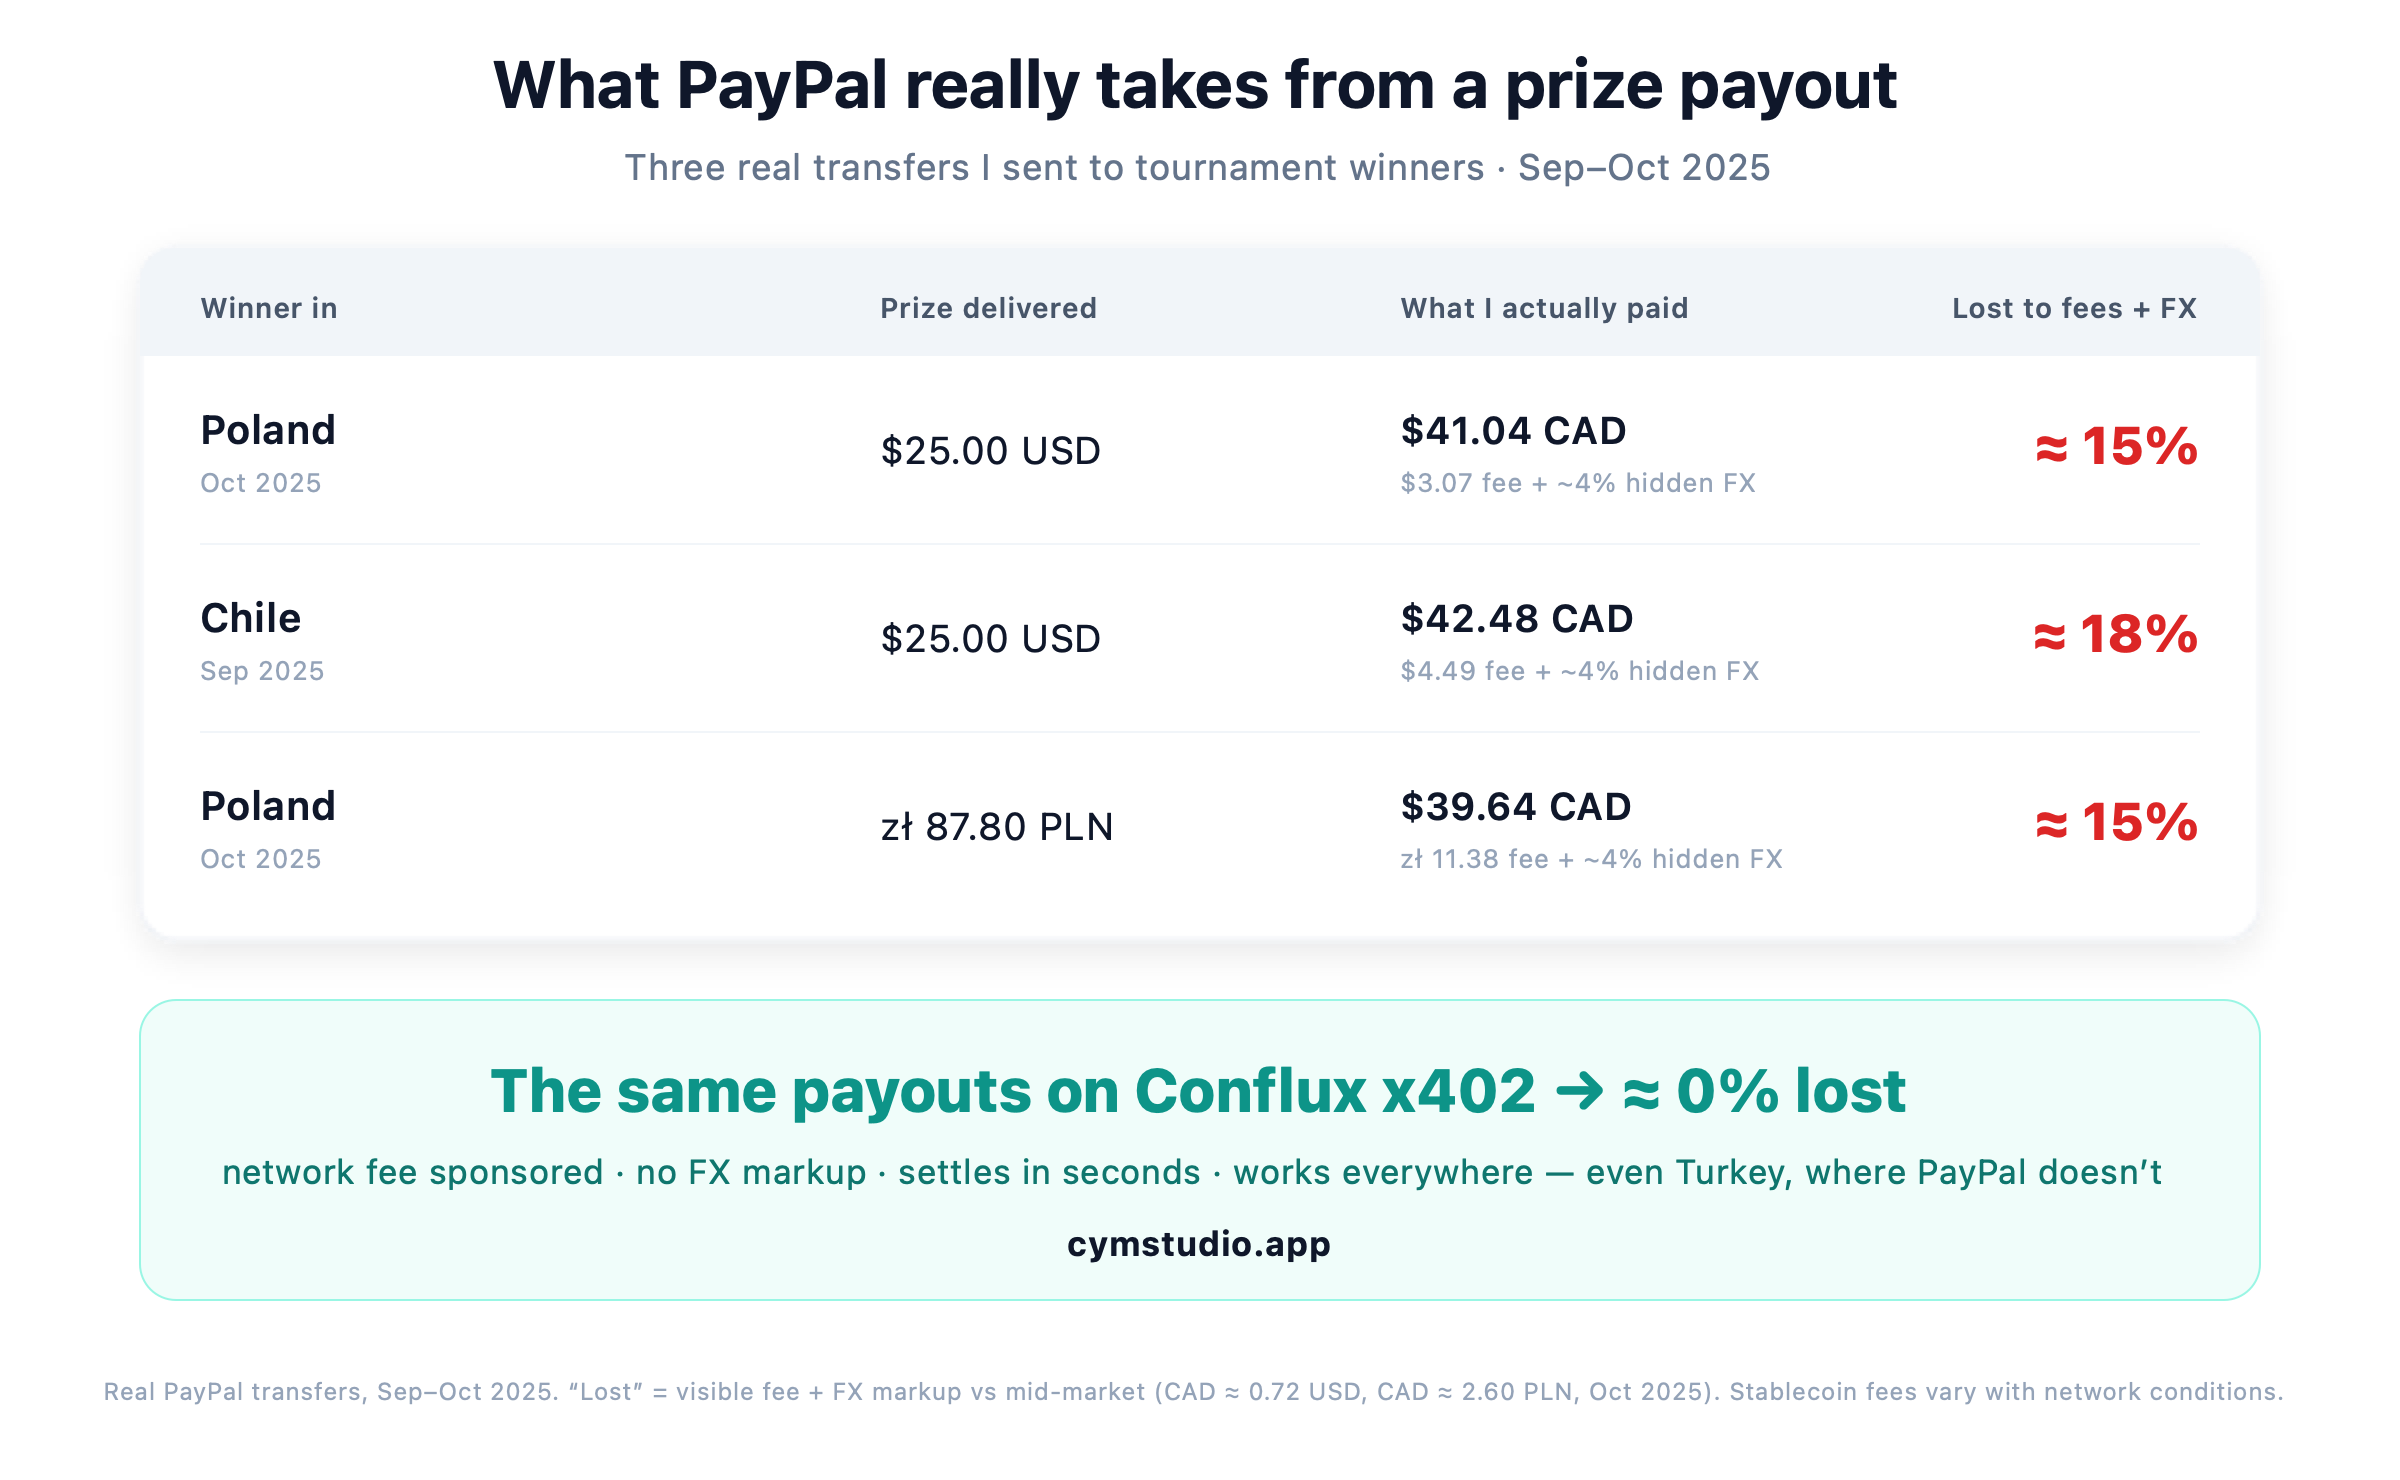
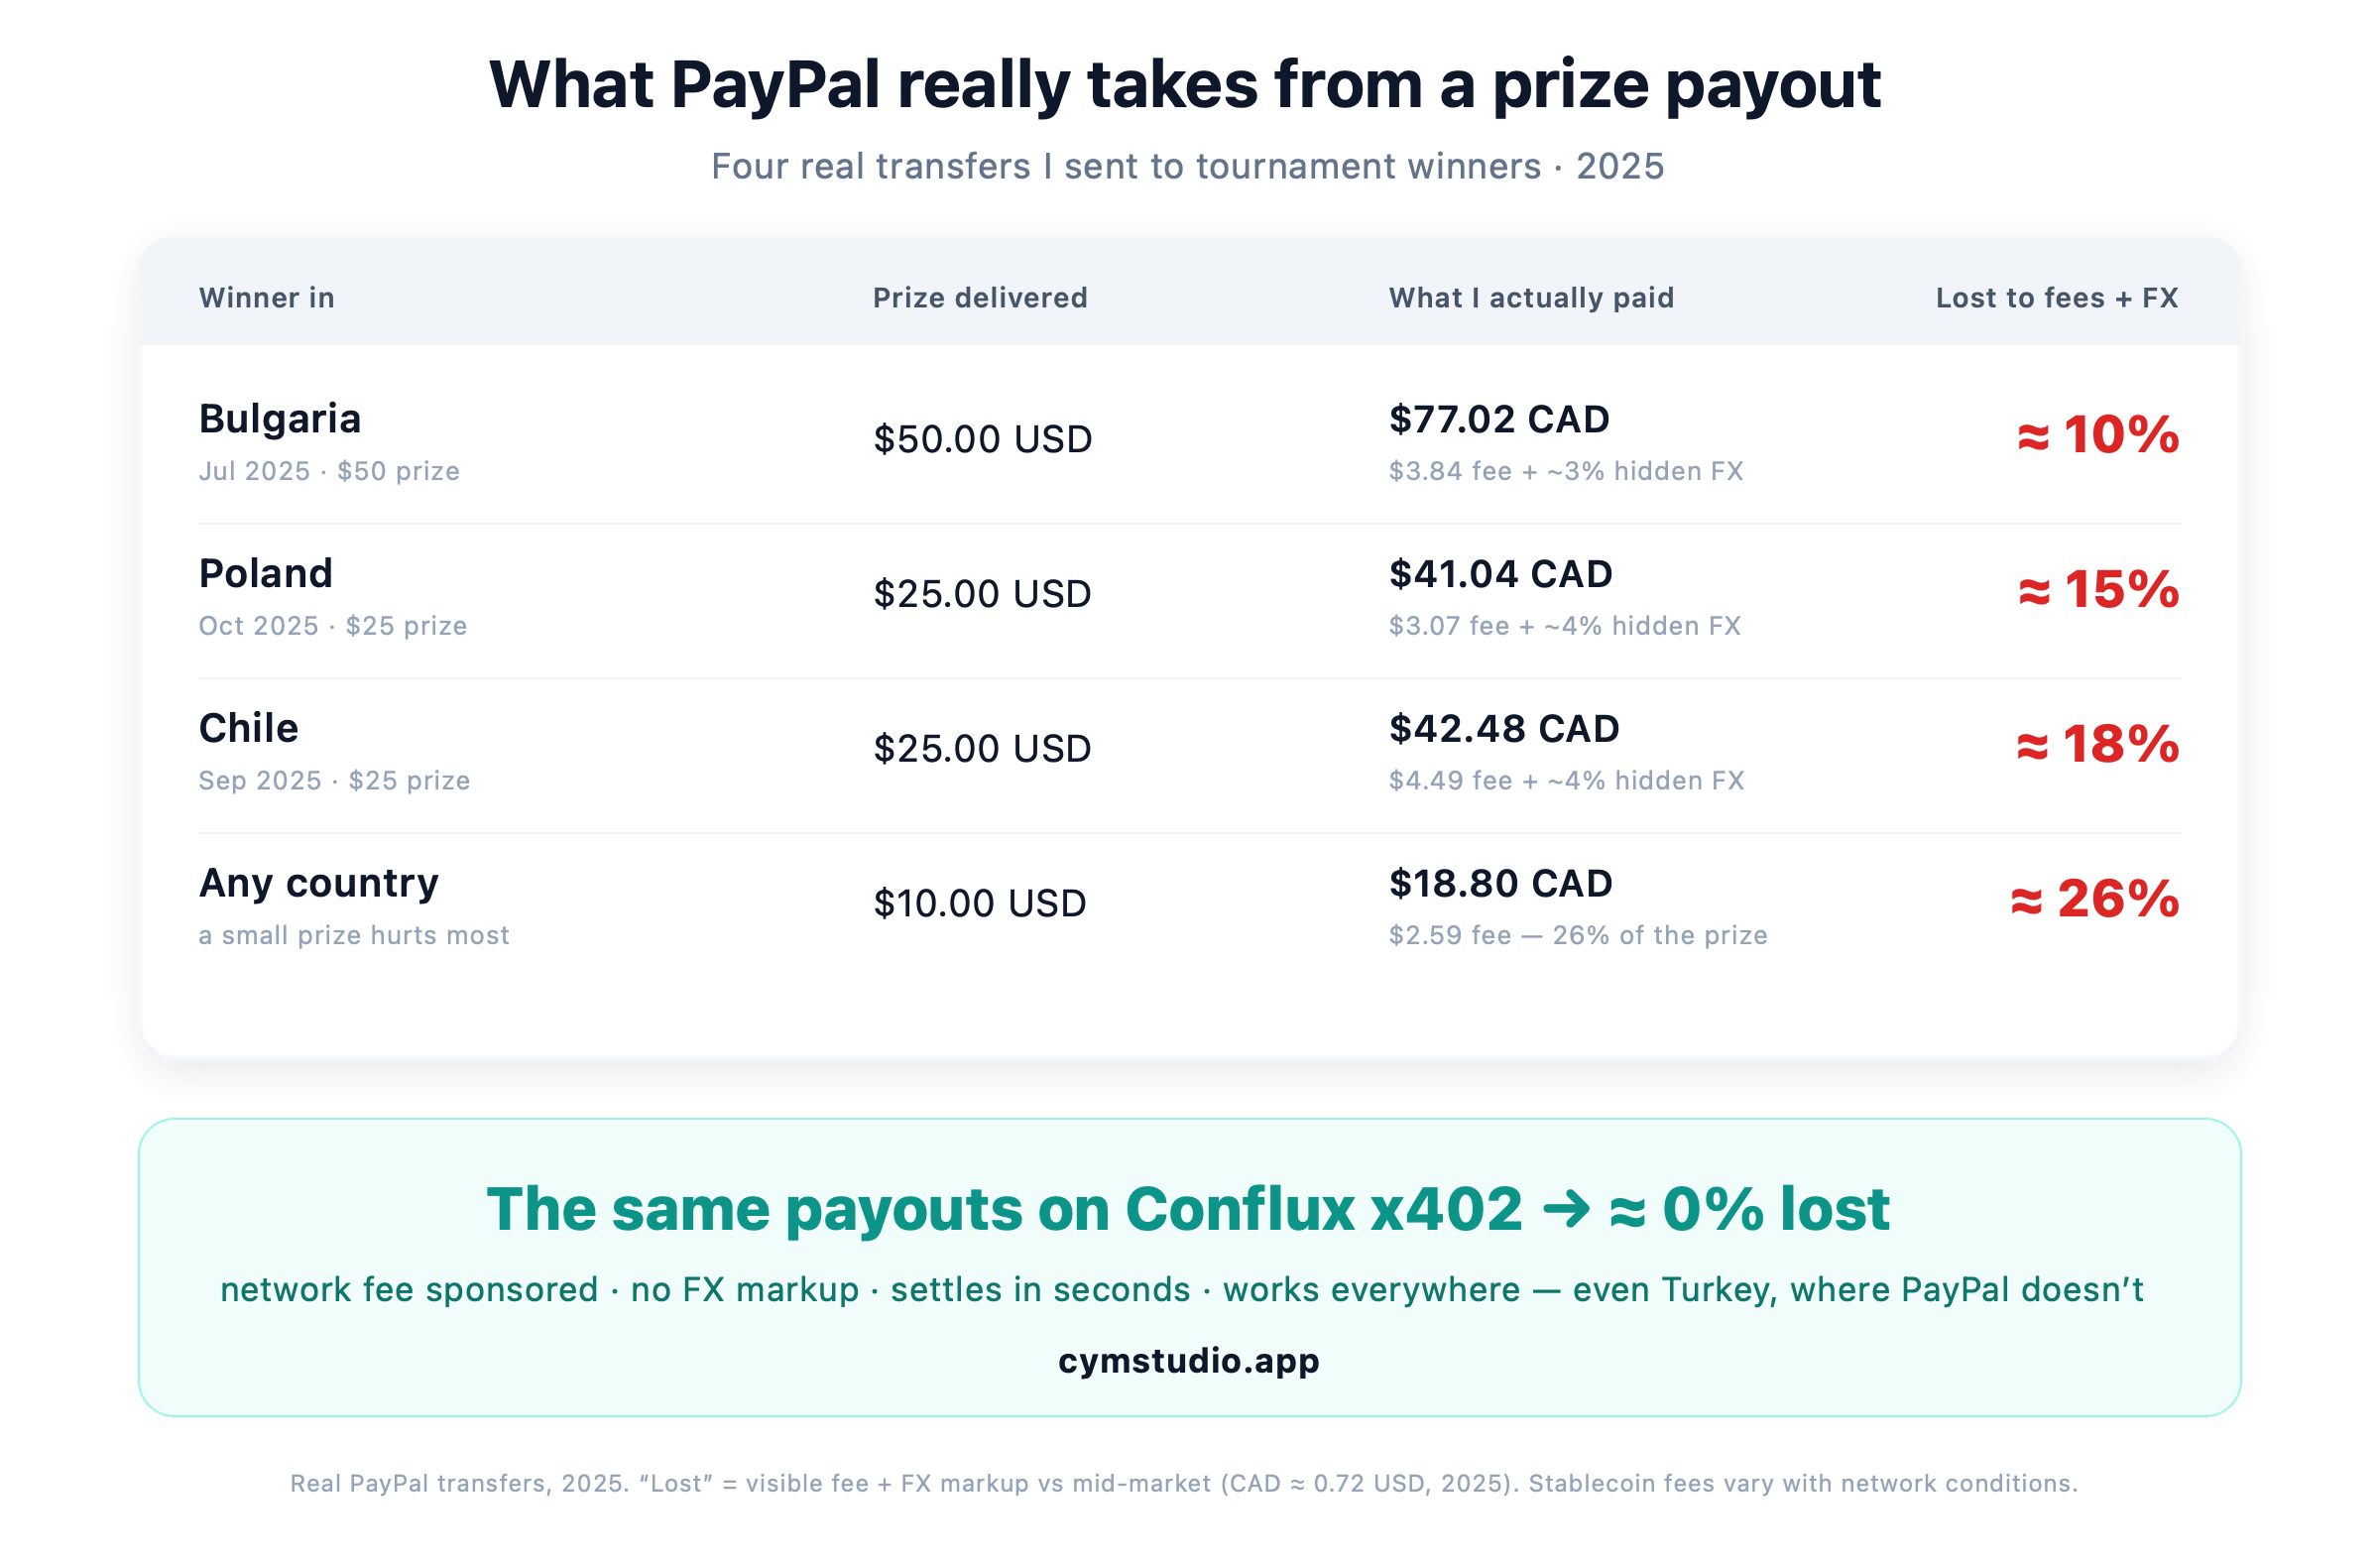
docs(submission): add Bulgaria payout, show full 10-26% fee range
Fold a real $50 Bulgaria transfer (~10% all-in) into the article and rebuild
the evidence graphic as four rows spanning the range: $50 -> 10%, $25 -> 15-18%,
$10 -> 26%. Names still redacted; countries and figures only.

diff --git a/submission/medium-article.md b/submission/medium-article.md
@@ -18,6 +18,7 @@ So I pulled up a year of real PayPal transfers to tournament winners, all funded
 
 A few of the real ones (2025):
 
+- A **$50 prize to a winner in Bulgaria**: **$3.84** fee plus the FX markup — about **10%** all-in. A bigger prize dilutes the fixed fee, but never escapes it.
 - A **$25 prize to a player in Chile**: PayPal took **$4.41** in fees and converted my Canadian dollars at a rate well below mid-market. All-in, getting $25 to him cost me about **18%**.
 - A **$25 prize to a winner in Poland**: **$3.07** fee plus the same FX haircut — roughly **15%** gone.
 - A **$10 prize**: the fee alone was **$2.59** — that's **26%** of the prize, because a near-fixed fee devours a small payout.